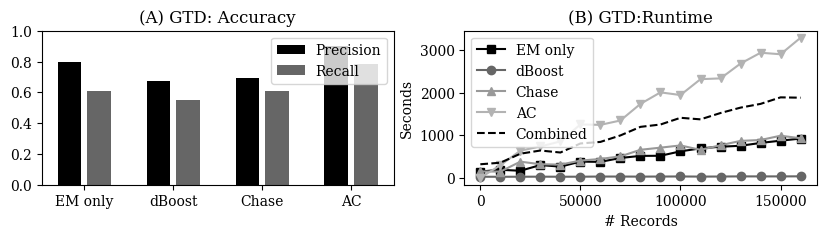
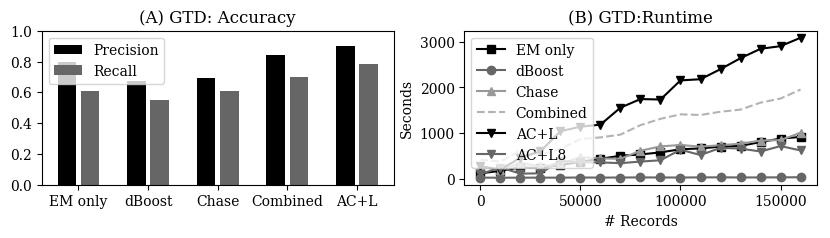
Updates from ShareLaTeX

diff --git a/experiments.tex b/experiments.tex
@@ -2,7 +2,7 @@
 Next, we present experimental results that suggest three main conclusions: (1) as a single framework, \sys can achieve parity in terms of accuracy with state-of-the-art approaches to a variety of different problems ranging from integrity constraint satisfaction, statistical data cleaning, and also data cleaning for machine learning, (2) it is possible to significantly reduce the runtime gap between \sys and specialized frameworks using simple pruning and distributed parallelization techniques, and (3) \sys enables automatic data cleaning for datasets containing a mixture of error types in an acceptable amount of time.  
 
 \subsection{Datasets and Cleaning Tasks}
-We list the main characteristics of the 8 experimental datasets, and describe them in more detail in our technical report~\cite{xxx}.
+We list the main characteristics of the 8 experimental datasets.
 
 \stitle{Flight} The flight dataset~\cite{data-flights} contains arrival time, departure time, and gate information aggregated from 3 airline websites (AA, UA, Continental), 8 airport websites (e.g., SFO, DEN), and 27 third-party websites.
 There are 1200 flight departures and arrivals at airline hubs recorded from each source.  Each flight has a unique and globally consistent ID, and the task is to reconcile data from different sources using the functional dependency \texttt{ID$\rightarrow$ arrival, departure, gate information}.
@@ -14,9 +14,9 @@ There are 1200 flight departures and arrivals at airline hubs recorded from each
 % In this dataset, we enforced functional dependency relationships between city and zipcodes. We also matched the occupation of the contributors to a code book of popular occupations. This was posed as a quality function that was 1 only if the cell belonged to the code book and 0 otherwise, and there was an additive penalty on the edit distance between the change and the previous value.   
 
 
-\stitle{Malasakit} This dataset contains 1493 survey disaster preparedness responses from the Philippines, with 15 numeric and discrete attributes. The task removes numerical outliers and remove dummy test records \ewu{Using XXX functional dependencies}.
+\stitle{Malasakit} This dataset contains 1493 survey disaster preparedness responses from the Philippines, with 15 numeric and discrete attributes. The task removes improper numerical values and remove dummy test records. This consists of domain integrity constraints that force the values to be within a certain dictionary.
 
-\stitle{Physician} This dataset from Medicare.gov contains 37k US physican records, 10 attributes, with spelling errors in city names, zipcodes, and other text attributes. \ewu{What is the task and number of FDs}
+\stitle{Physician} This dataset from Medicare.gov contains 37k US physican records, 10 attributes, with spelling errors in city names, zipcodes, and other text attributes. We use the data cleaning rules described in~\cite{rekatsinas2017holoclean}, which consists of 9 functional dependencies. 
 
 \stitle{Census} This US adult census data contains 32k records, and 15 numeric and discrete attributes.  There are many missing values coded as 999999.  The task is to clean numeric values to build a classification model that predicts whether an adult earns more than $\$50k$ annually. 
 
@@ -28,17 +28,10 @@ There are 1200 flight departures and arrivals at airline hubs recorded from each
 
 \stitle{Terrorism} The Global Terrorism Database~\cite{data-terrorism} is a dataset of around terrorist attacks scraped from news sources.  Each record contains the date, location, details about the attack, and the number of fatalities and injuries.  The dataset contains a mixture of data errors:
 (1) there are many duplicates for the same terrorist incident,
-(2) many missing values in the fatalities and injuries attributes are encoded as zeros, which overlaps with attacks that didnot have any fatalities/injuries, and
+(2) many missing values in the fatalities and injuries attributes are encoded as zeros, which overlaps with attacks that did not have any fatalities/injuries, and
 (3) the location attributes are inconsistently encoded.  
-We used the dataset from 1970, and there are around $200$ records.  
-
+We used the dataset from 1970, and there are $170000$ records.  
 We downloaded this dataset and sought to understand whether terrorist attacks have become more lethal than they were in the 1970s.  To do so, we hand cleaned the records to create a gold standard.  It turns out that, in this dataset, attacks have become more lethal, but fewer in number than 50 years ago.  This task was intentionally open-ended to represent the nature of the iterative analysis process.
-
-
-
-
-% dataset considers data for 1000 ticker symbols from 55 sources that covers key trading metrics for every trading day in a month.  The challenge is to integrate the schema of these different sources. For example, in one source the closing price is denoted by 'Prev. Close' and in another it is 'Previous Close'.  Once the schema is consistent, there is a further data cleaning problem, where we would like to reconcile the values from different sources. This can be achieved with a similar functional dependency relationship as described for the flight datasets.  
-
 
 
 \begin{figure}
@@ -55,7 +48,7 @@ Denial constraints express a wide range of integrity constraints and form the ba
 
 % Several data cleaning systems use Denial Constraints for constraint specification.  While \sys does not enforce integrity constraints, we can create a data quality objective function that quantifies the number of unsatisfied constraints.  This will search over a set of transformations that maximally satisfy these constraints.
 
-\stitle{Baselines} We run against (1) Llunatic, a denial constraint-based cleaning system~\cite{DBLP:conf/sigmod/DallachiesaEEEIOT13} implemented in C++ on top of PostgreSQL, and (2) a restricted chase algorithm~\cite{benedikt2017benchmarking} implemented in Python. We compare against the chase because a large portion of denial constraints are functional dependencies~\cite{}, and can be resolved using fixed-point iteration.  We report numbers from the recent Holoclean publication~\cite{rekatsinas2017holoclean} that used the same datasets and constraints, but did not run the experiment ourselves.
+\stitle{Baselines} We run against (1) Llunatic, a denial constraint-based cleaning system~\cite{DBLP:conf/sigmod/DallachiesaEEEIOT13} implemented in C++ on top of PostgreSQL\footnote{Constraints are specified as Tuple-Generating Dependencies}, and (2) a restricted chase algorithm~\cite{benedikt2017benchmarking} implemented in Python. We compare against the chase because a large portion of denial constraints are functional dependencies, and can be resolved using fixed-point iteration.  We report numbers from the recent Holoclean publication~\cite{rekatsinas2017holoclean} that used the same datasets and constraints, but did not run the experiment ourselves.
 
 \stitle{Results: } Figure \ref{exp1a}a shows the precision and recall of each approaches based on known ground truth. \sys matches or beats the accuracy of the baselines, however its runtime (AC) without any learning scales poorly compared to alternatives (\Cref{exp1b}b).  Using learning (AC+L) shows performance on par with LLunatic, and parallelization on 64 threads is comparable to Holoclean's reported runtime. The results suggest that learning exhibits sublinear scaling due to \sys learning more effective pruning rules as it sees more data.  These performance gains are at the expense of slightly reduced accuracy. 
 
@@ -92,7 +85,7 @@ Physician: $100\%$ prec, $84\%$, $3.4$hrs.
 This experiment performs numerical cleaning on machine learning data.  In these applications, prediction labels and test records are typically clean and available (e.g., results of a sales lead), whereas the training features are often integrated from disparate sources and exhibit considerable noise (e.g., outliers).  Our quality function is simply defined as the model's accuracy on a training hold-out set, and we report the test accuracy on a separate test set.
 
 We trained a binary classification random forest model using \texttt{sklearn} on the Census and EEG datasets.  We used standard featurizers (hot-one encoding for categorical data, bag-of-words for string data, numerical data as is) similar to~\cite{gokhale2014corleone}. 
-\ewu{We split the dataset into 20\% test and 80\% training, and further split training into 20/80 into hold-out and training.  We run the search over the training data, and evaluate the quality function using the hold-out.  Final numbers are reported using the test data.  }
+We split the dataset into 20\% test and 80\% training, and further split training into 20/80 into hold-out and training.  We run the search over the training data, and evaluate the quality function using the hold-out.  Final numbers are reported using the test data.
 
 
 % The quality function for \sys is 0 for each record that is incorrectly predicted by the model, 1 for each record that is correctly predicted by the model.
@@ -147,9 +140,9 @@ We now evaluate cleaning on the stock dataset~\cite{data-flights} from 55 differ
 \subsection{Mixing Error Classes}\label{s:expterror}
 In the next experiment, we use the Terrorism dataset~\cite{data-terrorism} to evaluate \sys's support of multiple error classes.  
 
-\stitle{Baselines} We hand-coded an entity matching (EM) algorithm that uses blocking to handle duplicate records.  We modeled the missing values as an outlier cleaning problem and used the dBoost~\cite{} library (dBoost). We modeled the location inconsistencies as a functional dependency problem and implemented a restricted chase algorithm (Chase).  Finally, we ran EM, dBoost, and Chase serially on the dataset (Combined).
+\stitle{Baselines} We hand-coded an entity matching (EM) algorithm that uses blocking to handle duplicate records.  We modeled the missing values as an outlier cleaning problem and used the dBoost library (dBoost). We modeled the location inconsistencies as a functional dependency problem and implemented a restricted chase algorithm (Chase).  Finally, we ran EM, dBoost, and Chase serially on the dataset (Combined).
 
-\stitle{Results} \Cref{exp7a}a shows that combining and cleaning all three classes of errors within the same \sys framework (AC) achieves higher precision and recall than all baselines.  \ewu{In fact, the combined baselines still does not achieve \sys's level of accuracy because the cleaning operations need to be interleaved differently for different blocks.}   Although \sys is slower than any individual baseline, parallelizing \sys to \ewu{XXX} threads is faster than the combined baseline by \ewu{FOO$\times$}. 
+\stitle{Results} \Cref{exp7a}a shows that combining and cleaning all three classes of errors within the same \sys framework (AC) achieves higher precision and recall than all baselines.  In fact, the combined baselines still does not achieve \sys's level of accuracy because the cleaning operations need to be interleaved differently for different blocks.   Although \sys is slower than any individual baseline, parallelizing \sys to 8} threads is faster than the combined baseline by 2x. 
 
 
 % Error type (1) is best handled with a blocking and matching entity matching approach. Error type (2) is best handled with an outlier detector, where outliers are replaced with null values. Error type (3) is best addressed by a Functional Dependency.
@@ -164,7 +157,7 @@ In the next experiment, we use the Terrorism dataset~\cite{data-terrorism} to ev
 \begin{figure}
     \centering
     \includegraphics[width=\columnwidth]{exp/exp7.png}
-    \caption{\small The terrorism dataset contains 3 classe of errors. (A) A unified cleaning framework outperforms individual cleaning approaches and even a serial combination.  (B) \sys is easily parallelized to \ewu{XXX} threads to outperform the combined baselines.  \label{exp7a}}
+    \caption{\small The terrorism dataset contains 3 classe of errors. (A) A unified cleaning framework outperforms individual cleaning approaches and even a serial combination.  (B) \sys is easily parallelized to 8 threads to outperform the combined baselines.  \label{exp7a}}
 \end{figure}
 
 \subsection{\sys In Depth}
@@ -178,7 +171,7 @@ This subsection uses the FEC setup to study the parameters that affect \sys's ac
 
 \stitle{Coupling in the Quality Function} The complexity of the quality function directly affects search time.  A cell-separable quality function is the simplest to optimize because each cell in the relation can be analyzed and cleaned in isolation.  In contrast, a quality function that couples multiple records together is more challenging to optimize because a longer sequence of transformation may be needed to sufficiently clean the records and improve the quality function.  
 
-We evaluate this by artificially coupling between 1-10 records together, and creating a quality function that only improves when an attribute of the coupled records all have the same value.  We perform this coupling in two ways: {\it Random} couples randomly selected records, whereas {\it Correlated} first sorts the relation an attribute and couple records within a continuous range.  We expect that the random coupling requires individual cleaning operations for each record based on their IDs, whereas the correlated setting both allows \sys to exploit the correlated structure to learn effective pruning rules and \ewu{to clean the coupled records using a single cleaning operation}.  \Cref{fig:microbenchmarks}c shows that this is indeed the case when running \sys on a single fixed-size block. {\it Random} slows down exponentially with increased coupling, whereas {\it Correlated} increases linearly.
+We evaluate this by artificially coupling between 1-10 records together, and creating a quality function that only improves when an attribute of the coupled records all have the same value.  We perform this coupling in two ways: {\it Random} couples randomly selected records, whereas {\it Correlated} first sorts the relation an attribute and couple records within a continuous range.  We expect that the random coupling requires individual cleaning operations for each record based on their IDs, whereas the correlated setting both allows \sys to exploit the correlated structure to learn effective pruning rules and to clean the coupled records using a single cleaning operation.  \Cref{fig:microbenchmarks}c shows that this is indeed the case when running \sys on a single fixed-size block. {\it Random} slows down exponentially with increased coupling, whereas {\it Correlated} increases linearly.
 
 % The nature of the quality function also affects the search time. Quality functions that couple multiple records together are harder to optimize (Figure \ref{fig:microbenchmarks}c).
 % Consider a function that requires that two different records must have the same attribute values.
@@ -225,9 +218,9 @@ Indeed we find an interesting trade-off.  The 1 attribute predicate performed wo
 
 \subsubsection{Scaling}
 
-\stitle{Parallelization Optimizations} The experiments run on a cluster of 4 mx.large EC2 instances, and we treat each worker in a distributed (not shared-memory) fashion.   \Cref{fig:opt}a shows the benefits of the materialization and communication optimizations in \Cref{s:parallel}.  {\it No opt.} simply runs best-first search in parallel without any materialization; workers only synchronize at the end of an iteration by sending their top-$\gamma$ candidate programs to the driver, which prunes and redistributes the candidates in the next iteration.  {\it Cache} extends No opt by locally materializing parent programs, and {\it Cache+Comm} further adds the communication optimizations for distributed parallelization.   \ewu{make clear in figure that rebalancing is distirbuted}. 
+\stitle{Parallelization Optimizations} The experiments run on a cluster of 4 mx.large EC2 instances, and we treat each worker in a distributed (not shared-memory) fashion.   \Cref{fig:opt}a shows the benefits of the materialization and communication optimizations in \Cref{s:parallel}.  {\it No opt.} simply runs best-first search in parallel without any materialization; workers only synchronize at the end of an iteration by sending their top-$\gamma$ candidate programs to the driver, which prunes and redistributes the candidates in the next iteration.  {\it Cache} extends No opt by locally materializing parent programs, and {\it Cache+Comm} further adds the communication optimizations for distributed parallelization.   
 
-The single threaded No Opt setting runs in $4432$s, and the materialization optimization reduces the runtime by $10\times$ to $432$s.   Scaling out improves all methods: at 64 workers, {\it Cache+Comm} takes 67s while {\it Cache} takes 137s.  Surprisingly, although {\it No Opt} with 64 workers is slower than {\it Cache+Comm} by $10\times$, it scales the best because it only synchronizes at the end of an iteration and only communicates candidate programs and their quality values.  In contrast, the alternative methods may communicate materialized relation instances.  \ewu{I think I missed this communication cost in the optimizations text}
+The single threaded No Opt setting runs in $4432$s, and the materialization optimization reduces the runtime by $10\times$ to $432$s.   Scaling out improves all methods: at 64 workers, {\it Cache+Comm} takes 67s while {\it Cache} takes 137s.  Surprisingly, although {\it No Opt} with 64 workers is slower than {\it Cache+Comm} by $10\times$, it scales the best because it only synchronizes at the end of an iteration and only communicates candidate programs and their quality values.  In contrast, the alternative methods may communicate materialized relation instances.  
 
 \stitle{Within-Block Learning} Although we have shown how learning reduce the overall search runtime, we show that learning also improves the search speed for individual blocks.  We run single-threaded \sys and report the time to evaluate each block.  \Cref{fig:opt}b shows the $i^{th}$ block that is processed on the x-axis, and the time to process it on the y-axis.   We see that as more blocks are cleaned, the learned pruning classifier is more effective at pruning implausible candidate programs.  This reduces the per-block search time by up to $75\%$.  
 
@@ -239,6 +232,6 @@ The single threaded No Opt setting runs in $4432$s, and the materialization opti
  \caption{\small 
    (A) Both the materialization (Cache) and distributed communication (Comm) optimizations contribute to improved scale-out runtimes.
    (B) The learned pruning rules improve the search costs for each subsequent block-wise partition.  
-   (C) Best-first search is better than BFS and DFS; reducing $\gamma$ prunes more candidates at the expense of lower accuracy.   \ewu{Make sure to update the label for Best-First 2 and 4 to Gamma=0.5 and Gamma=0.25} \ewu{Fix all y-axes}
+   (C) Best-first search is better than BFS and DFS; reducing $\gamma$ prunes more candidates at the expense of lower accuracy.  
  \label{fig:opt}}
 \end{figure*}

diff --git a/introduction.tex b/introduction.tex
@@ -5,50 +5,46 @@ Automation in data cleaning is challenging because real-world data is highly var
 A single data set can have many different types of data corruption such as statistical outliers, constraint violations, and duplicates.
 Once an error is detected, there is a further question of how to repair this error, which often depends on how the data will be used in the future.
 
-This variability creates a tension between the needs of the data scientist and the designer of the data cleaning framework.
-While the data scientist might desire a single cleaning framework that addresses all of her data errors and repair operations, from an algorithmic perspective, it is far more efficient to consider more restricted models.
+This variability creates a tension between generality and efficiency.
+While one might want a single cleaning framework that addresses all types of errors and repair operations, it is far more efficient to consider more specialized frameworks.
 Data cleaning tools are often highly optimized for particular problems  (e.g., see statistical outliers~\cite{hellerstein2008quantitative}, enforcing logical constraints~\cite{DBLP:conf/sigmod/ChuIKW16}, entity resolution~\cite{DBLP:journals/pvldb/KopckeTR10}). 
 Consequently, a recent survey of industry suggests that data cleaning pipelines are often a patchwork of custom scripts and multiple specialized systems~\cite{krishnan2016hilda}.
-The overhead to setup, learn, and manage multiple cleaning systems can easily outweigh their benefits.
+The overhead to setup, learn, and manage multiple cleaning systems can easily outweigh the benefits.
 Some data scientists eschew automated tools altogether and simply write data cleaning programs from scratch.
 The customized programming approach quickly becomes difficult to mantain and interpret; especially for users without data engineering expertise~\cite{sculley2014machine}.
 
-We believe that a single cleaning system that exposes a sufficiently flexible interface can address the above challenges as long as the runtime can be made comparable to existing alternatives.  
-To this, we turn to the modern AI and planning literature, which has produced exciting results such as AlphaGo~\cite{silver2016mastering} that were previously considered not possible.    This work shows that a combination of machine learning and massively parallelized search can effectively optimize highly complex objective functions.
-Our main observation is that data cleaning is very similar to AI planning problems~\cite{russell1995modern}.
-In planning, the system is given a state space and actions that transition between states, and incrementally generates a sequence of actions one move at a time (a plan) that will ultimately maximize a quality function. The classic application is a computer chess program that must plan a sequence of chess moves that change the state of the board in order to maximize the likelihood of a checkmate. Likewise, in data cleaning, one is given a dirty relation and a way to measure data quality (e.g., number of integrity constraints violated), and the data cleaning problem is to find a sequence of modifications to the relation that maximize the data quality metric.
+We believe that a single cleaning system that exposes a sufficiently flexible interface can address the above challenges; as long as the runtime can be made comparable to existing alternatives.  
+To achieve this, we turn to the contemporary AI literature, which has produced exciting results such as AlphaGo~\cite{silver2016mastering} that were previously considered not possible.    This work shows that a combination of machine learning and massively parallelized search can effectively optimize highly complex objective functions.
+Our main observation is that data cleaning is very similar to the search problems considered in AI~\cite{russell1995modern}.
+The classic application is a computer chess program that must plan a sequence of chess moves that change the state of the board in order to maximize the likelihood of a checkmate. Likewise, in data cleaning, one is given a dirty relation and a way to measure data quality (e.g., number of integrity constraints violated), and the data cleaning problem is to find a sequence of modifications to the relation that maximize the data quality metric.
 
-Most non-trivial planning problems are very hard without good search heuristics.
-Advances in machine learning have made it possible to replace hand-crafted heuristics with automatically learned pruning functions that estimate the expected quality of candidate plans. AlphaGo learned pruning heuristics using a neural network trained on data generated through self-play~\cite{silver2016mastering}. 
-The key insight is that expertly written heuristics can be replaced with data-driven models, which makes the techniques applicable to a diverse set of applications.   
+Most non-trivial problems are very hard without good search heuristics.
+Advances in machine learning have made it possible to replace hand-crafted heuristics with automatically learned pruning functions that estimate the expected quality of candidate plans. AlphaGo learned pruning heuristics using a neural network trained on data generated through self-play~\cite{silver2016mastering}.
 This insight is highly relevant to data cleaning, where datasets tend to have structure amenable to learning heuristics adaptively.
 Data errors are often systematic where they are correlated with with certain attributes and values in the dataset~\cite{rekatsinas2017holoclean,DBLP:journals/pvldb/KrishnanWWFG16}.
 Consequently, as more data is cleaned, we can better identify common patterns to prioritize the search on future data.
+We may not necessarily need a neural network for data cleaning, but the overall algorithmic structure of AlphaGo, tree-search combined with a learned heuristic, can be very useful.
 
-\sys is a new data cleaning system that is designed around a search-based architecture. It takes as input a {\it quality function} that models the data quality of a relation as a real-value between $[0,1]$ and a {\it language} of parameterized data cleaning operators, and outputs a sequence of data cleaning transformations (a cleaning program) from the language that seeks to maximize the quality function.This API imposes minimal restrictions on the quality function, giving it tremendous flexibility in terms of the data errors that it can express.   As a comparison, a recent system called Holoclean~\cite{holoclean} is similar in that it provides a rich interface to specify denial constraints and lookup tables, and integrates them within a probabilistic model to more accurately resolve constraint violations.  In contrast, \sys's quality function is a UDF that can express {\it arbitrary combinations} of denial constraints {\it as well as} statistical, quantitative, text formatting, and other classes of data errors.  For instance, \Cref{s:expquant} shows how \sys can perform cleaning for machine learning applications by embedding machine learning training and evaluation within the quality function, while \Cref{s:expterror} combines entity resolution, outlier cleaning, and functional dependency violations within the same function.  
+\sys is a new data cleaning system that is designed around a search-based model. It takes as input a {\it quality function} that models the data quality of a relation as a real-value between $[0,1]$ and a {\it language} of parameterized data cleaning operators, and outputs a sequence of data cleaning transformations (a cleaning program) from the language that seeks to maximize the quality function.This API imposes minimal restrictions on the quality function, giving it tremendous flexibility in terms of the data errors that it can express.   As a comparison, a recent system called Holoclean~\cite{rekatsinas2017holoclean} is similar in that it provides a rich interface to specify denial constraints and lookup tables, and integrates them within a probabilistic model to more accurately resolve constraint violations.  In contrast, \sys's quality function is a user-defined function that can express {\it arbitrary combinations} of denial constraints {\it as well as} statistical, quantitative, text formatting, and other classes of data errors.  For instance, \Cref{s:expquant} shows how \sys can perform cleaning for machine learning applications by embedding machine learning training and evaluation within the quality function, while \Cref{s:expterror} combines entity resolution, outlier cleaning, and functional dependency violations within the same function.  
 
-\sys uses a best-first search that greedily appends data transformations to the set of best candidate programs seen so far, and adopts parallelization and pruning ideas from the search-based planning literature.  In contrast to traditional planning, where the search state (e.g., chess board) is compact and largely trivial to parallelize in a distributed setting, the data cleaning search state is the size of the input dataset and introduces a trade-off between communication costs to share intermediate state and the degree of parallelism possible.  We develop a gather-scatter style method to parallelize \sys in a distributed context. 
-
+\sys uses a best-first search that greedily appends data transformations to the set of best candidate programs seen so far, and adopts parallelization and pruning ideas from the search-based planning literature.  In contrast to traditional search problems, where the search state (e.g., chess board) is compact and largely trivial to parallelize in a distributed setting, the data cleaning search state is the size of the input dataset and introduces a trade-off between communication costs to share intermediate state and the degree of parallelism possible.  
 To further accelerate its runtime, \sys can also encode problem-specific optimizations as search pruning rules (e.g., disallowed transformation sequences) or modifications to the data representation (e.g., clustering similar records).  We find that many optimizations in existing cleaning systems may be cast as search pruning rules.
-More powerfully, \sys can adaptively learn pruning rules to avoid unprofitable search branches during the search process. 
+\sys can adaptively learn pruning rules to avoid unprofitable search branches during the search process.
 While AlphaGo used a deep neural network and massive amounts of training data to model the heurisitic, we found that a simple logistic regression classifier and training data gathered during the search process was sufficient to reduce the runtime by multiple orders of magnitude. 
 
-
 It is natural to expect that such a general formulation must sacrifice cleaning accuracy, runtime performance, or both.  Our primary technical contribution is to show that neither need be sacrificed\footnote{It is important to acknowledge that \sys loses many of the provable guarantees provided by specialized systems based on logical constraints, and is in some sense, best-effort.  }
-Across 8 real-world datasets used in prior data cleaning literature, we show that \sys matches or exceeds the cleaning accuracy and exhibits competitive run-times to state-of-the-art approaches that are specialized to a specific error domain (constraint, statistical, or quantitative errors).  \ewu{Sprinkle some numbers here}
+Across 8 real-world datasets used in prior data cleaning literature, we show that \sys matches or exceeds the cleaning accuracy and exhibits competitive run-times to state-of-the-art approaches that are specialized to a specific error domain (constraint, statistical, or quantitative errors).  
 
-We believe that unifying disparate data cleaning problems within a single, compact\footnote{The core search and optimization code is $<200$LOC in Python.} framework offers many unique benefits and directions for new data cleaning applications.  These include:
+\subsection{Main Benefits}
 \begin{itemize}[leftmargin=*, topsep=0mm, itemsep=0mm]
-\item \stitle{Optimization} Existing cleaning pipelines must combine disparate cleaning solutions and manage glue code to transfer data between systems.  However, data transfer can be a non-trivial portion of the total cleaning cost and recent work~\cite{palkar2017weld} has shown that a common runtime can avoid data movement and improve runtimes by up to $30\times$.  Unifying data cleaning within a single search-based framework avoids such overheads and offers optimization opportunities such as parallelization and shared computation between the different error classes.
+\item \stitle{Optimization} Existing cleaning pipelines must combine disparate cleaning solutions and manage glue code to transfer data between systems.  However, data transfer can be a non-trivial portion of the total cleaning cost and recent work~\cite{palkar2017weld} has shown that a common runtime can avoid data movement and improve runtimes by up to $30\times$.  
 
 \item \stitle{Generalization and Robustness} In contrast to existing cleaning systems, that output a cleaning relation, \sys outputs a composable cleaning program that is both simpler to understand because it groups common fixes together, and can be applied to new data.  In addition, the cleaning program allows us to analyze cleaning systems for overfitting.  We indeed find that the complexity of the quality function and cleaning language can lead to overfitting, and believe this is the case for any data cleaning system.  We also show that simple changes to the quality function can act as regularization terms to control the degree of overfitting.
 
-\item \stitle{Software Engineering} Eschewing multiple cleaning systems simplifies software engineering, and lets users focus on expressing their application's notion of data quality.  Users do not need to write and manage glue code; do not need to manage ETL between systems; and do not need to learn system specific abstractions, languages, and assumptions.  All of these are arguably intangible, but critical friction points in the highly iterative cleaning process.  
+\item \stitle{Software Engineering}  Users do not need to write and manage glue code; do not need to manage ETL between systems; and do not need to learn system specific abstractions, languages, and assumptions.  All of these are arguably intangible, but critical friction points in the highly iterative cleaning process.  
 
-\item \stitle{New Cleaning Applications} We currently support a programmatic interface using simple Python library, however we envision that a single API makes it possible to support an ecosystem of domain-specific cleaning specification libraries.  For instance,  interactive visualization interfaces akin to~\cite{trifacta,kandel2011wrangler,DBLP:journals/pvldb/0002M13,wu2012demonstration} can directly translate user interactions into a wide range of cleaning constraints.   This can enable an entire population of non-technical domain experts to participate in the data cleaning process.
+\item \stitle{New Cleaning Applications} We currently support a programmatic interface using simple Python library, however we envision that a single API makes it possible to support an ecosystem of domain-specific cleaning specification libraries.  For instance,  interactive visualization interfaces akin to~\cite{trifacta,kandel2011wrangler,DBLP:journals/pvldb/0002M13,wu2012demonstration} can directly translate user interactions into a wide range of cleaning constraints.   
 \end{itemize}
-
-To summarize, \sys highlights an approach to data cleaning where users articulate high level cleaning goals, and the system automatically proposes an interpretable cleaning program.  It is a step towards a unified framework for automatic data cleaning systems, similar in spirit to the relational model, which combined transaction, analytic, graph, machine learning, and other data-intensive applications under a unified specification, optimization, and execution framework.
 
 
 

diff --git a/main.tex b/main.tex
@@ -49,7 +49,7 @@
 
 \usepackage{balance}
 
-%\linespread{0.99}
+\linespread{0.99}
 
 \makeatletter
 \def\@copyrightspace{\relax}
@@ -175,7 +175,7 @@
 % \title{\sys: Automatic Data Cleaning as Planning}
 % \title{\sys: Automatic Data Cleaning as Optimization}
 %\title{\sys: A Declarative Data Cleaning System Inspired By AlphaGo}
-\title{AlphaClean: A Planning Approach Towards Unified Automatic Data Cleaning}
+\title{AlphaClean: Automatic Data Cleaning With Distributed Search and Machine Learning}
 
 \numberofauthors{1}
 \author{ Sanjay Krishnan$\,^{*}$, Michael J. Franklin$\,^{*\dag}$, Ken Goldberg$\,^{*}$, Eugene Wu{$\,^{\dag\dag}$}  \\
@@ -192,17 +192,12 @@
 
 \begin{abstract}
 Results in AI, like AlphaGo, have shown that a combination of Machine Learning and distributed search can effectively optimize very complex objective functions, e.g., the value of board positions in a complex game like Go.
-These results are highly relevant to the study of data cleaning, which often involves an optimization over modifications to a dataset to enforce a complex, interdependent set of data constraints.
-This paper explores explicitly posing the data cleaning as a planning problem: given an objective function that defines cleanliness, find a feasible sequence of data transformations that maximizes this objective.
-Our system, \sys, is based on this general optimization framework that can express a very large class of data cleaning problems including cleaning with rules, statistical models, and crowd sourcing.
-While very general, special case performance can be improved through an API that specifies pruning and data partitioning rules on top of this general framework. 
-The system additionally adaptively learns additional pruning functions with Machine Learning to exploit systematic errors in the dataset--and re-use previously discovered transformation patterns.
-The benefits of this approach are: (1) there are few restrictions on what the user can express at the cost of run time, (2) the output is a sequence of transformations rather than a clean database instance so the logic of the algorithm is more interpretable and can apply to future data, and (3) the optimization algorithm is greatly simplified and parallelizable.
-Surprisingly, we find that \sys achieves parity with state-of-the-art specialized constraint, statistical, and quantitative data cleaning systems in terms of accuracy.
-On two datasets considered in prior data cleaning work of Flight arrival times and a Physician registry, \sys achieves a similar precision and recall to a recently proposed Denial Constraint systems. 
-Similarly, we applied \sys to numerical outlier problems and compared to the Minimum Covariance Determinant (MCD) algorithm.
-Outliers removed by \sys  improved the accuracy of a downstream predictive models more significantly than MCD (5\% prediction accuracy improvement on the US Census Dataset) and a (4\% on an EEG dataset). 
-We find that \sys achieves these levels for a very reasonable amount of additional computation (up-to 64 additional search threads).
+This paper explores an analogous approach to data cleaning, a cost-based search over data transformations.
+We propose \sys where users articulate high level cleaning goals (as a function that measures the quality of the data), and the system automatically finds an interpretable cleaning program to best maximize that objective.
+\sys is very general and can express a very large class of data cleaning problems including cleaning with integrity constraints and statistical models.
+The system additionally adaptively learns a search heuristic with Machine Learning to exploit systematic errors in the dataset.
+With \sys: (1) there are few restrictions on what the user can express at the cost of run time, (2) the output is a sequence of transformations rather than a database instance so the output can apply to future data, and (3) the optimization algorithm is parallelizable.
+We compared \sys to several special case integrity constraint systems and quantitative data cleaning approaches, and suprisingly, found that we can match the accuracy and the runtime by leveraging parallelism.
 \end{abstract}
 
 
@@ -226,7 +221,7 @@ We find that \sys achieves these levels for a very reasonable amount of addition
 %\bibliographystyle{abbrv}
 
 {
-\fontsize{8.8pt}{9.6pt} \selectfont
+\fontsize{8.2pt}{9.4pt} \selectfont
 \small
 \bibliographystyle{abbrv}
 \bibliography{ref} 

diff --git a/conclusion.tex b/conclusion.tex
@@ -1,11 +1,9 @@
 \section{Conclusion and Future Work}
-In summary, \sys poses data cleaning as a planning problem over a language of data transformations, and presents existing error-specific approaches---constraint-based, statistical, and demonstration-based data cleaning---within a single framework.
+In summary, \sys poses data cleaning as a search problem over a language of data transformations, and presents existing error-specific approaches---constraint-based, statistical, and demonstration-based data cleaning---within a single framework.
 Contrary to prevailing wisdom, our experiments on 8 diverse datasets suggest that this general framework can still exploit problem-specific structure to achieve parity with specialized solutions in terms of cleaning accuracy, use pruning and parallelization to run comparably to specialized solutions, yet maintain the flexibility to clean datasets that span error class.       
 Because the output is a cleaning program rather than a cleaned dataset, we are able to evaluate the cleaning results in terms of overfitting and generalization, and show how the high-level interface allows the user to easily control overfitting by tuning the quality function and language expressiveness.  
 
-Although our results suggest that borrowing from recent advances in planning and optimization is a fruitful direction, the results are counter-intuitive and raise a number of questions about future opportunities in data cleaning.  Does \sys achieve comparable and higher accuracy than specialized systems because the systems are designed for worst-case scenarios that are not present in most datasets?  Or are the benchmarks we borrowed and compared against too simple and amenable to greedy brute-force search?  \ewu{Given the lack of ground-truth in most real datasets, how can automated cleaning system know that their solutions are correct?} \ewu{Something positive to end these questions.}
-
-Finally, we are excited to extend \sys towards a more flexible and usable data cleaning system.  In particular, data cleaning is inherently a visual and interactive process, and we plan to integrate \sys with a data visualization interface.   Users can visually manipulate and examine their dataset and the system can translate interactive manipulations into quality functions.  This will also require work to characterize failure modes and provide high level tools to debug such cases.  We are also hopeful that the compact codebase (<200LOC for the core search and learning algorithms) can enable more rapid development of specialized data cleaning systems for novel domains and error conditions.  
+We are excited to extend \sys towards a more flexible and usable data cleaning system.  In particular, data cleaning is inherently a visual and interactive process, and we plan to integrate \sys with a data visualization interface.   Users can visually manipulate and examine their dataset and the system can translate interactive manipulations into quality functions.  This will also require work to characterize failure modes and provide high level tools to debug such cases.  We are also hopeful that the compact codebase (<200 LOC for the core search and learning algorithms) can enable more rapid development of specialized data cleaning systems for novel domains and error conditions.  
 
 
 % The prevailing wisdom in the design of data cleaning algorithms is to exploit the details of specific problem rather than considering the most general cases, and our experiments suggest that this a general framework like \sys can achieve parity in terms of accuracy.

diff --git a/background.tex b/background.tex
@@ -7,12 +7,10 @@ Let $R$ be a relation over a set of attributes $A$,  $\mathcal{R}$ denote the se
 A data transformation $T(R): \mathcal{R} \mapsto \mathcal{R}$ maps an input relation instance $R \in \mathcal{R}$ to a new (possibly cleaner) instance $R' \in \mathcal{R}$ that is union compatible with $R$.  For instance, ``replace all \texttt{city} attribute values equal to {\it San Francisco} with {\it SF}'' may be one data transformation, while ``delete the $10^{th}$ record'' may be another.   
 Aside from union compatibility, transformations are simply UDFs.
 Although it is desirable for the transformation to be deterministic and idempotent, if they are not, it simply makes the cleaning problem harder.
-We find that nearly all cleaning transformations in existing literature satisfy these properties \ewu{(See Appendix of technical report)}. 
+%We find that nearly all cleaning transformations in existing literature satisfy these properties \ewu{(See Appendix of technical report)}. 
 
 Data transformations can be composed using the binary operator $\circ$ as follows: $(T_i \circ T_j)(R) =  T_i(T_j(R))$.
-The composition of one or more data transformations is called a {\it cleaning program} $p$.   If $p = p' \circ T$, then $p'$ is the parent of $p$; the parent of a single data transformation is a NOOP.  
-
-In practice, users will specify {\it transformation templates} $\mathbb{T}(\theta_1,\cdots,\theta_k)$, and every assignment of the parameters represents one possible transformation.  
+The composition of one or more data transformations is called a {\it cleaning program} $p$.   If $p = p' \circ T$, then $p'$ is the parent of $p$; the parent of a single data transformation is a NOOP.  In practice, users will specify {\it transformation templates} $\mathbb{T}(\theta_1,\cdots,\theta_k)$, and every assignment of the parameters represents one possible transformation.  
 Although $\mathbb{T}$ can in theory be an arbitrary deterministic template function, our current implementation makes several simplifying assumptions to bound the number of data transformations that it can output.  We assume that a parameter $\theta_i$ is typed as an attribute or a value.  The former means that $\theta_i$'s domain is the set of attribute names in the relation schema; the latter means that $\theta_i$'s domain is the set of cell values found in the relation, or otherwise provided by the user. 
 
 \begin{example}\label{ex1}

diff --git a/opts.tex b/opts.tex
@@ -1,7 +1,6 @@
-\begin{figure}[h]
+\begin{figure}[t]
     \centering
     \includegraphics[width=\columnwidth]{figures/distributed.pdf}
-    \vspace{1pt}
     \caption{In each iteration, each worker starts with a subset of the priority queue (boxes).  The driver sends a subset of data transformations from $\Sigma$ (circles) to generate candidate programs (box-circles).  A series of synchronization points identify the globally top $\gamma$ candidates and redistributes them across the workers.   \label{fig:algo}}
 \end{figure}
 

diff --git a/synth.tex b/synth.tex
@@ -3,8 +3,9 @@ We now provide an overview of \sys's search algorithm and optimizations.
 
 % The optimization algorithm takes a quality function, a language, and a dirty relation, and outputs a sequence of transformations (of max depth $k$) that maximizes the quality function.
 
-{\small
+{
 \begin{algorithm}[t]
+\footnotesize
 \KwData{Q, R, $\Sigma$, $L$, (k, $\gamma$)}
 
 // Initialize priority queue of candidate programs\\
